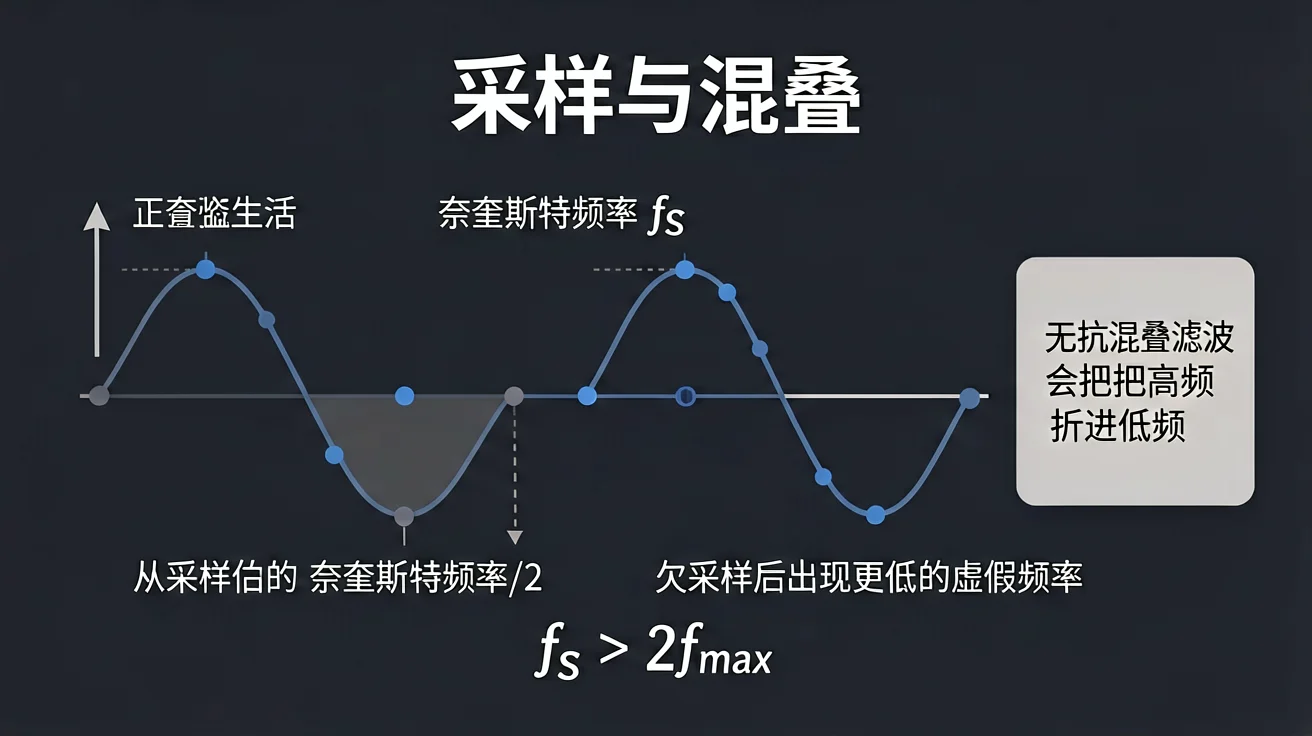
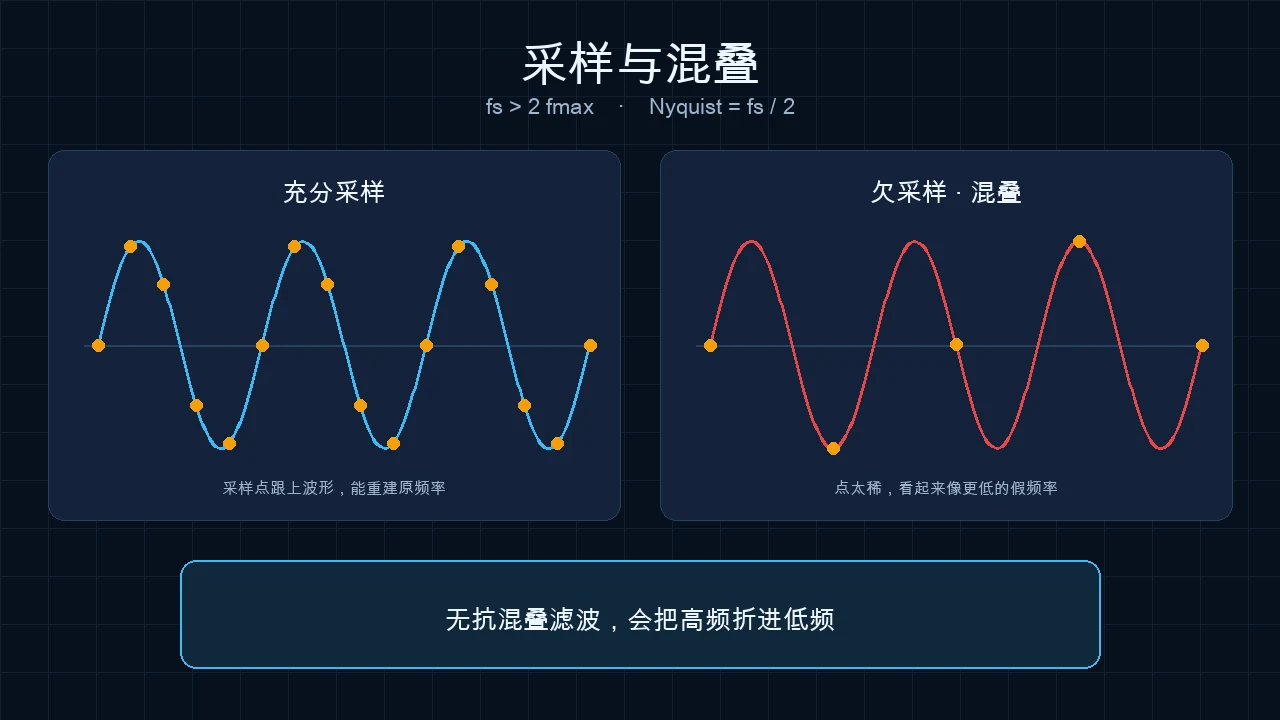
fix(info-u-signals-pbl): replace garbled AI infographics with readable CJK diagrams
Cover and sampling figures had Agnes watermarks and broken Chinese; redraw with system CJK fonts so the first screen is readable.

diff --git a/community/info-u-signals-pbl/index.html b/community/info-u-signals-pbl/index.html
@@ -895,7 +895,7 @@ select { font-size: 15px; }
       <h1>信号与处理：从学生提问出发</h1>
       <p class="subtitle">广播听不清，你的第一个真正的问题是什么？</p>
       <figure class="ta-standard-figure" style="margin-top:32px">
-        <img class="hero-cover-img" src="./assets/info-u-signals-pbl-hero.webp" alt="信号与处理 PBL 知识结构：学生提问到采样、LTI 卷积、DFT 窗函数、FIR/IIR 滤波">
+        <img class="hero-cover-img" src="./assets/info-u-signals-pbl-hero.webp?v=2" alt="信号与处理 PBL 知识结构：学生提问到采样、LTI 卷积、DFT 窗函数、FIR/IIR 滤波">
         <figcaption>课程不从定义开始。先把听不清写成可检验的问题，四道关卡逼出核心课深度。</figcaption>
       </figure>
     </div>
@@ -1094,7 +1094,7 @@ select { font-size: 15px; }
           <h2>采样：你听到的频率可能是假的</h2>
         </div>
         <figure class="ta-standard-figure">
-          <img src="./assets/sampling-aliasing.webp" alt="采样与混叠：连续信号、采样点、奈奎斯特频率与欠采样虚假频率">
+          <img src="./assets/sampling-aliasing.webp?v=2" alt="采样与混叠：连续信号、采样点、奈奎斯特频率与欠采样虚假频率">
           <figcaption>欠采样时，高频会折进 [0, fs/2]。抗混叠必须发生在采样之前。</figcaption>
         </figure>
         <div class="formula">fs &gt; 2 f<sub>max</sub>　·　Nyquist = fs/2　·　f<sub>alias</sub> = |f − k·fs|</div>
